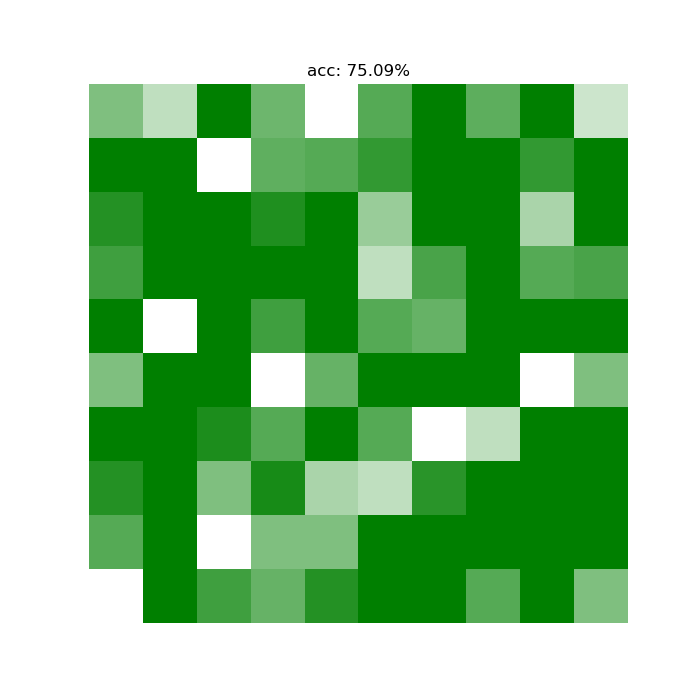
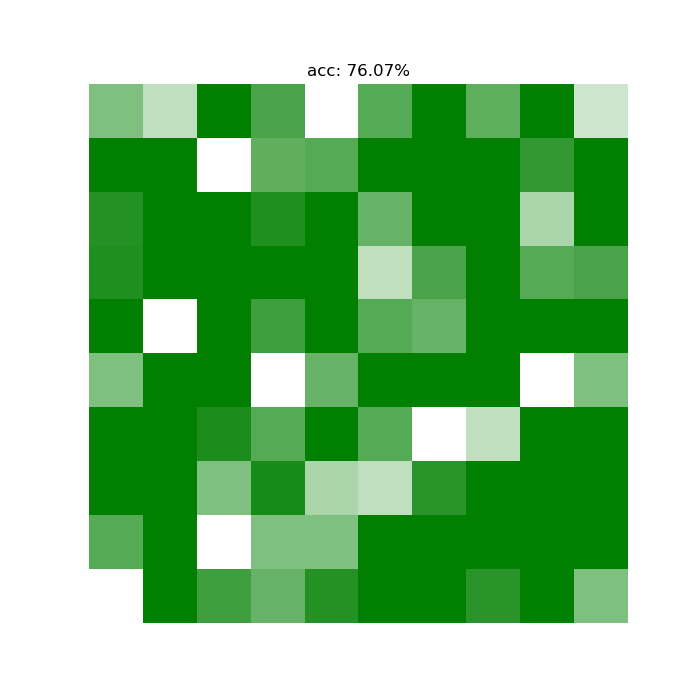
Updated with last_is_num table

diff --git a/core/extractor_pdfbox.py b/core/extractor_pdfbox.py
@@ -29,9 +29,10 @@ def load_tables_manually(path):
     text = read_and_delete_file(tmp_fn)
 
     tables = []
-
+    remaining_text = []
     # Iterate thru text
     for i in range(len(text)):
+        remaining_text.append(i)
         # if we arrive at a line starting with "Table X", it is the caption.
         curr_line = text[i].lower()
         #if "table" in curr_line.lower():
@@ -45,6 +46,8 @@ def load_tables_manually(path):
             for table_is_before in [True, False]:
                 for k in range(1, min(i, 50)):
                     next_index = i-k if table_is_before else i+k
+                    if next_index in remaining_text:
+                        remaining_text.remove(next_index)
                     if next_index < 0 or next_index >= len(text):
                         break
                     line = text[next_index]
@@ -66,6 +69,8 @@ def load_tables_manually(path):
                             line_has_digits = True
                         else:
                             line_has_digits = digits >= words // 3 or digits >= 2
+                    if digits > 0 and not line_has_digits:
+                        line_has_digits = line_words[-1].replace('.','',1).replace('%','').replace('±','').isdigit()
                     if line_has_digits:
                         # line with digits
                         current_table.insert(0, line)
@@ -103,6 +108,7 @@ def load_tables_manually(path):
 #manual 'Table X' + 'Tab. X' + least 3 numbs + float		-> 73.00 %
 #manual 'Table X' + 'Tab. X' + least 2 numbs + 2,3 elements + float		-> 73.17 %
 #manual 'Table X' + 'Tab. X' + backwards + least 2 numbs + 2,3 elements + float		-> 75.09 %
+#manual 'Table X' + 'Tab. X' + backwards + last_is_num + least 2 numbs + 2,3 elements + float		-> 76.07 %
 
 if __name__ == '__main__':
     logging.basicConfig(level=logging.DEBUG)
